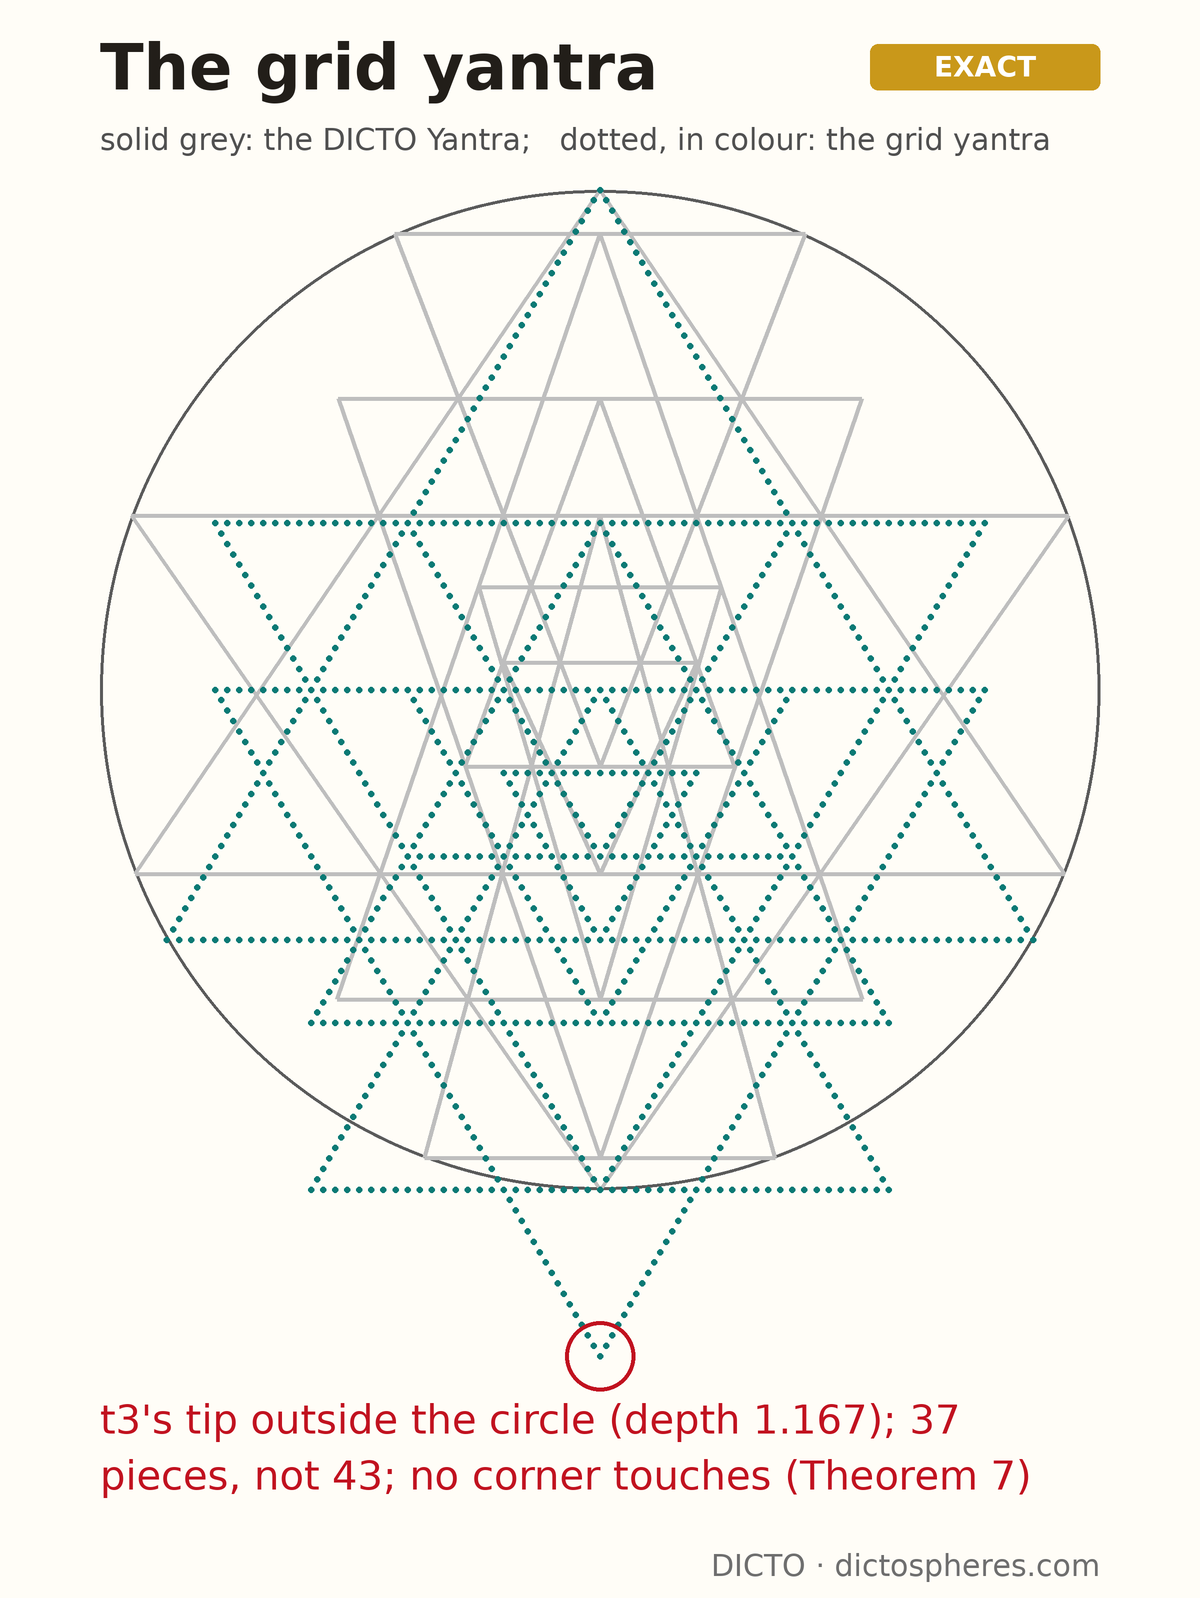
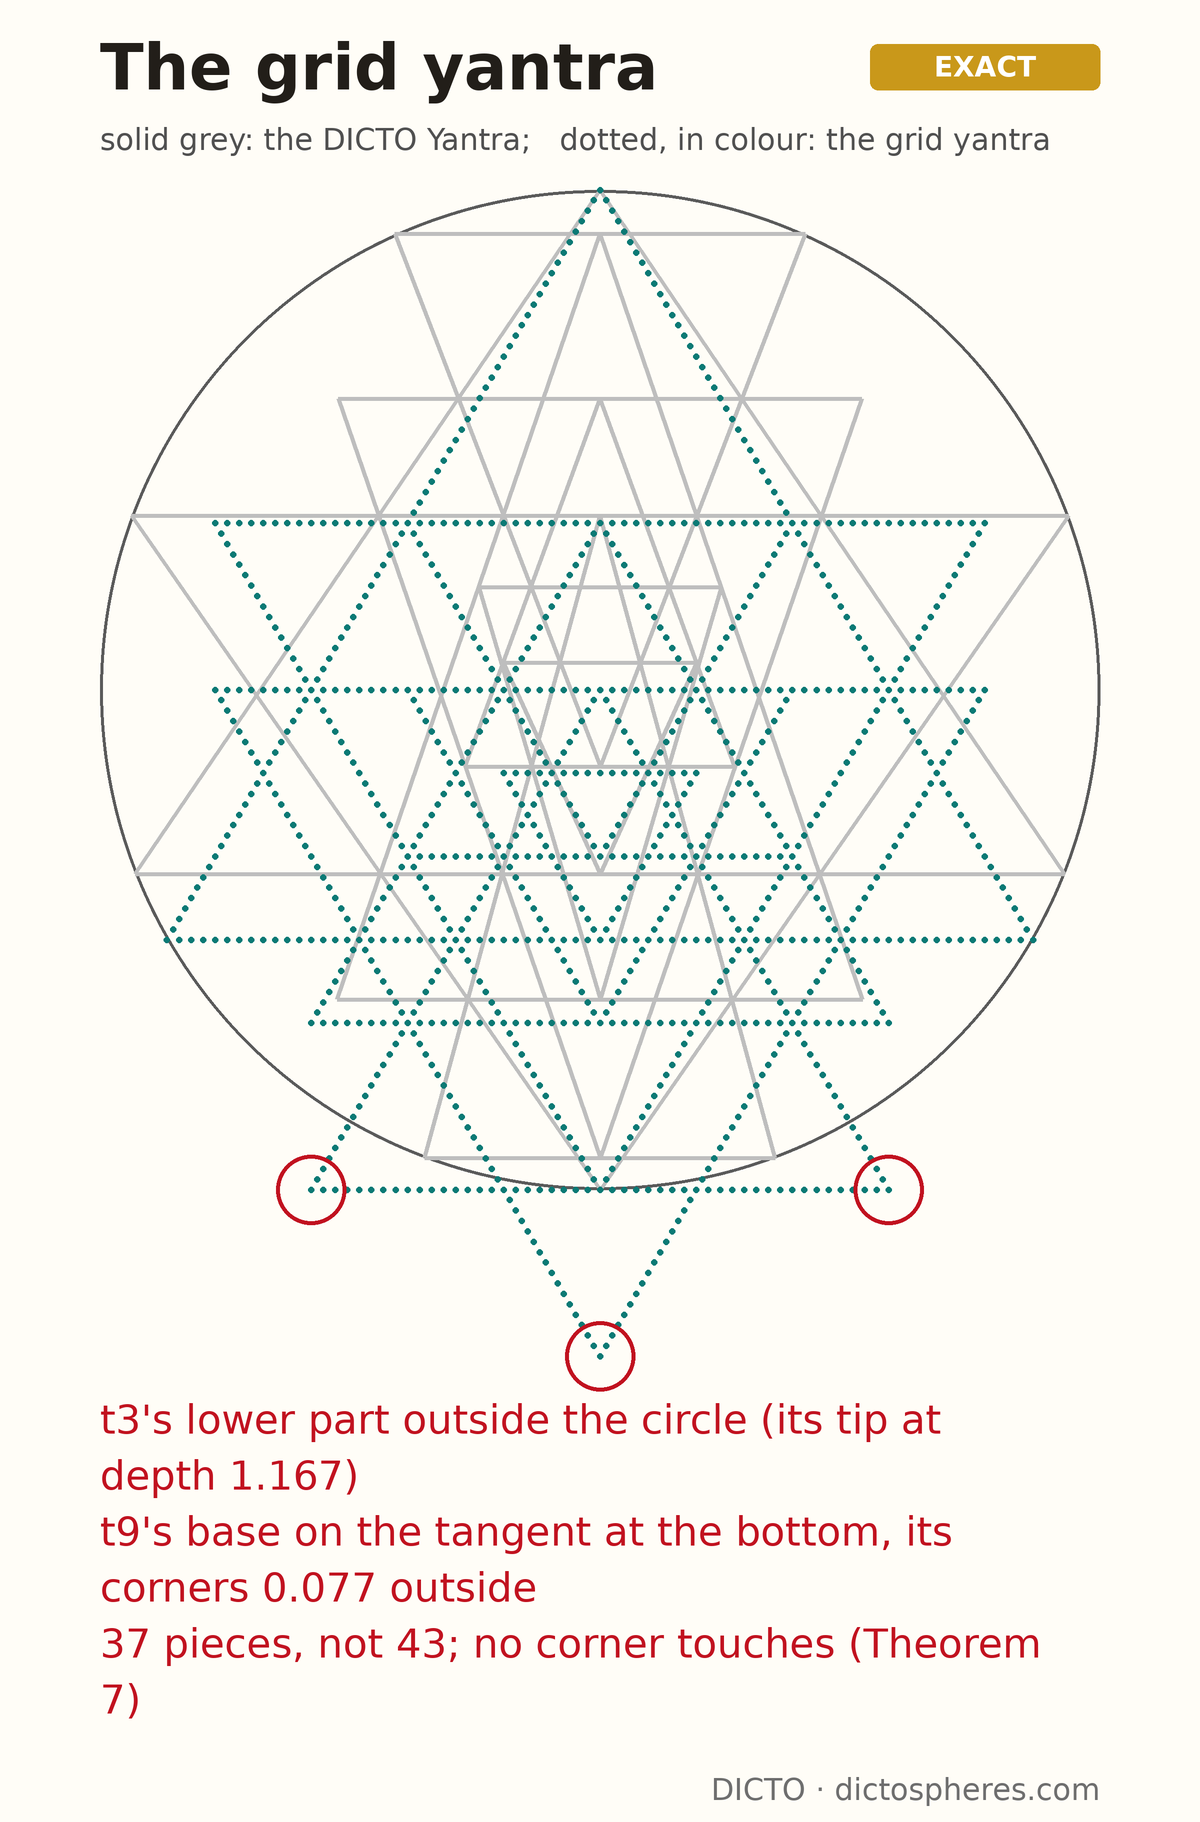
#103 v3: grid yantra note names t3's lower part and t9's base outside the circle (DICTO: drawing showed more than the note claimed)

diff --git a/papers/2026-11-08-dicto-yantra/paper.html b/papers/2026-11-08-dicto-yantra/paper.html
@@ -17,7 +17,7 @@ DICTO: ideas, names, constructions and direction.<br>Computation, verification a
 
 <div class="status">DRAFT of Version 3 for DICTO to read. Built from the proof audit of 9 November (studies/2026-11-09-yantra-audit: AUDIT_REPORT.md, certificates/, appendix_H.md). Before release: the data link in the meta line still points to commit 8e56566f; the audit's certificate scripts and the repaired cleo_cap.py go into the public kaleidohedra repository first, and the link moves to that commit. Attach H-full.txt (Appendix H), threshold-minpoly-u.txt (Proposition 13) and g1-minpoly-t.txt (G1) beside the two polynomial files. On release this box goes and the line below becomes the permanent Version 3 line.</div>
 
-<p class="version"><b>Version 3 adds</b> certificates for Theorems 9 and 10 (irreducibility, real-root isolation, and interval Newton with the elimination identities); certified piece counts for the DICTO Yantra (43) and Kulaichev's yantra (45); Appendix H (Theorem 6's relation H in full); a proof-status table (Table 4); admissibility conditions in Theorem 1; the narrower heading of Proposition 8; DICTO's 3-4-5 rhombus yantra as the parallel exact solution beside Kulaichev's (Proposition 12); a close-up of Kulaichev's extra pieces (Figure 12); the rhombus threshold u* where the extra pieces are born (Proposition 13); G1 exactly (degree 152); and E1 placed on the edge of that threshold meeting and refined to 90 digits.<br><b>Version 2 added</b> the new title; the two exact solutions, the DICTO Yantra (Theorem 9: minimal polynomial of degree 160) and Kulaichev's classical yantra (Theorem 10: degree 348), each checked independently at 260 digits and backwards from the polynomial alone, and their comparison (Proposition 11); overlay figures, each yantra dotted in its own colour over the DICTO Yantra with its shortcomings noted in red, and an overview figure; §13 sorted into closed and exact, computed, and open; and wording: "perfect" is replaced by the conditions it stood for.</p>
+<p class="version"><b>Version 3 adds</b> certificates for Theorems 9 and 10 (irreducibility, real-root isolation, and interval Newton with the elimination identities); certified piece counts for the DICTO Yantra (43) and Kulaichev's yantra (45); Appendix H (Theorem 6's relation H in full); a proof-status table (Table 4); admissibility conditions in Theorem 1; the narrower heading of Proposition 8; DICTO's 3-4-5 rhombus yantra as the parallel exact solution beside Kulaichev's (Proposition 12); a close-up of Kulaichev's extra pieces (Figure 12); the rhombus threshold u* where the extra pieces are born (Proposition 13); G1 exactly (degree 152); E1 placed on the edge of that threshold meeting and refined to 90 digits; and Figure 8 and §7 now name every part of the grid yantra outside the circle (t3's lower part and t9's base), not only t3's tip.<br><b>Version 2 added</b> the new title; the two exact solutions, the DICTO Yantra (Theorem 9: minimal polynomial of degree 160) and Kulaichev's classical yantra (Theorem 10: degree 348), each checked independently at 260 digits and backwards from the polynomial alone, and their comparison (Proposition 11); overlay figures, each yantra dotted in its own colour over the DICTO Yantra with its shortcomings noted in red, and an overview figure; §13 sorted into closed and exact, computed, and open; and wording: "perfect" is replaced by the conditions it stood for.</p>
 
 <figure class="cover"><img src="figures/dicto-yantra-3d-gf1.png" alt="The DICTO Yantra in three dimensions: spinning cones, still tetrahedra, and the yantra seen from one of three positions"></figure>
 
@@ -97,8 +97,8 @@ Q = t v (u²t³ − u²v t² − u²v² t + v) / (u²v t⁴ − u²(v² + 1) t³
 <p>The triangular grid, after the Matos painting, and the Cleo grid: all nine triangles similar, with one leg slope s (s = 1/√3 equilateral, s = 1/φ the Cleo-Icos side face).</p>
 <div class="thm"><b>Theorem 7 (one slope).</b> If all nine triangles have the same leg slope s, then: (1) the 18 marmas and the 7 apex-on-base conditions fix the yantra up to scale and shift along the axis, for every s, with heights t5 : t1 : t4 : t6 : t8 : t9 : t2 : t3 : t7 = 2 : 4 : 4 : 4 : 6 : 6 : 8 : 8 : 9; (2) adding the corner touches forces every triangle to size zero, so no one-slope yantra has them; (3) the two great triangles cannot both be inscribed.</div>
 <p><i>Proof.</i> With one slope, two legs of slope s from tips at depths a<sub>i</sub> and a<sub>k</sub>, one pointing down and one up, cross at depth (a<sub>i</sub> + a<sub>k</sub>)/2, whatever s. So a marma (i, j, k) is the linear condition b<sub>j</sub> = (a<sub>i</sub> + a<sub>k</sub>)/2, an apex-on-base is a<sub>x</sub> = b<sub>y</sub>, and a corner touch of i on j is b<sub>i</sub> = (a<sub>i</sub> + a<sub>j</sub>)/2. Solving the 16 conditions of (1) leaves two free depths and gives the sizes a<sub>i</sub> − b<sub>i</sub> as multiples of b<sub>9</sub> − b<sub>8</sub>: 2, 4, 4, 2, 1, 2, 9/2, 3, 3 for t1 … t9, which doubled are the ratios above. Adding the three corner touches leaves one free depth and every size 0 (one_slope.py). (3) An inscribed triangle with its tip on the circle and leg slope s has height 1/(1 + s²); t3 and t7 would need the same height, but their heights are in the ratio 8 : 9. ∎</p>
-<p>With t7 inscribed, t3's tip falls outside the circle, at depth 7/6 = 1.167 for the equilateral grid and 1.126 for the Cleo grid, and the pieces are 12, 9, 6, 9, 1 (37), not 43. The slope only stretches the yantra sideways, so the two grids give the same yantra up to that stretch. A grid yantra is exact in every meeting but is not the traditional figure; painted grid yantras relax exactness.</p>
-<figure><img class="ov" src="figures/overlay-grid.png" alt="The equilateral grid yantra dotted in teal over the DICTO Yantra; t3's tip ringed below the circle"><figcaption><b>Figure 8. The equilateral grid yantra</b> (Theorem 7), dotted over the DICTO Yantra (solid grey): every meeting exact, heights 2 : 4 : 4 : 4 : 6 : 6 : 8 : 8 : 9; ringed in red, t3's tip outside the circle; 37 odd pieces (12, 9, 6, 9, 1).</figcaption></figure>
+<p>With t7 inscribed, t3's tip falls outside the circle, at depth 7/6 = 1.167 for the equilateral grid and 1.126 for the Cleo grid (for the equilateral grid its legs leave the circle at depth 0.989, so the lowest 27% of t3's height lies outside), and t9's base lies on the tangent at the bottom point (for both grids), its corners 0.077 of the diameter outside for the equilateral grid; the pieces are 12, 9, 6, 9, 1 (37), not 43. The slope only stretches the yantra sideways, so the two grids give the same yantra up to that stretch. A grid yantra is exact in every meeting but is not the traditional figure; painted grid yantras relax exactness.</p>
+<figure><img class="ov" src="figures/overlay-grid.png" alt="The equilateral grid yantra dotted in teal over the DICTO Yantra; t3's tip ringed below the circle"><figcaption><b>Figure 8. The equilateral grid yantra</b> (Theorem 7), dotted over the DICTO Yantra (solid grey): every meeting exact, heights 2 : 4 : 4 : 4 : 6 : 6 : 8 : 8 : 9; ringed in red, t3's tip and t9's base corners, outside the circle; 37 odd pieces (12, 9, 6, 9, 1).</figcaption></figure>
 
 <h2>8. The parent of the stella yantra's upper slope</h2>
 <p>With both great slopes fixed by solids, only two of (b), (c), (d) can be imposed. Here the stella is kept: its tetrahedron stays exact below (v = 1/√2) and the upper slope is free. The result, PF2 (§9.3, Figure 9), has upper slope u = 0.695886431693, whose base corners lie 110.332934° round the circle from its tip (cos = (u² − 1)/(u² + 1)); the stella's lower triangle has 109.471221°, the tetrahedral angle.</p>

diff --git a/studies/2026-11-08-sri-yantra/scripts/overlay.py b/studies/2026-11-08-sri-yantra/scripts/overlay.py
@@ -173,9 +173,12 @@ def main(outdir):
                 f"(off by {abs(m['bindu']):.3f})", "t1's base at 3.3/48, not 6/48 as traditionally drawn"], corner_rings(*Y['R1'][1]()[:2]))
     m = M['Rh345']; need(m['n'] == 45 and abs(abs(m['bindu']) - 2.36e-5) < 0.01e-5, 'Rh345')
     P['Rh345'] = (['45 pieces, not 43 (ringed: the third ring\'s two smallest pieces); 28 sandhis', 'bindu off centre by 2.36·10⁻⁵'], [])
-    m = M['grid']; need(m['t3tip'] > 1 and m['n'] == 37, 'grid')
-    P['grid'] = ([f"t3's tip outside the circle (depth {m['t3tip']:.3f}); 37 pieces, not 43; no corner touches (Theorem 7)"],
-                 [(0.0, m['t3tip'], 0.035)])
+    m = M['grid']; need(m['t3tip'] > 1 and m['n'] == 37 and m['off'][9] > 0.05, 'grid')
+    gb, gw = Y['grid'][1]()[:2]
+    P['grid'] = ([f"t3's lower part outside the circle (its tip at depth {m['t3tip']:.3f})",
+                  f"t9's base on the tangent at the bottom, its corners {m['off'][9]:.3f} outside",
+                  "37 pieces, not 43; no corner touches (Theorem 7)"],
+                 [(0.0, m['t3tip'], 0.035), (gw[9], gb[9], 0.035), (-gw[9], gb[9], 0.035)])
     m = M['K1']; need(m['n'] == 43 and abs(m['bindu']) > 1e-4, 'K1')
     P['K1'] = ([f"bindu not centred (off by {abs(m['bindu']):.3f} of the diameter)", 'COMPUTED: exact form not found'], [])
     m = M['V1']; need(m['n'] == 43 and abs(m['bindu']) < 1e-9, 'V1')
